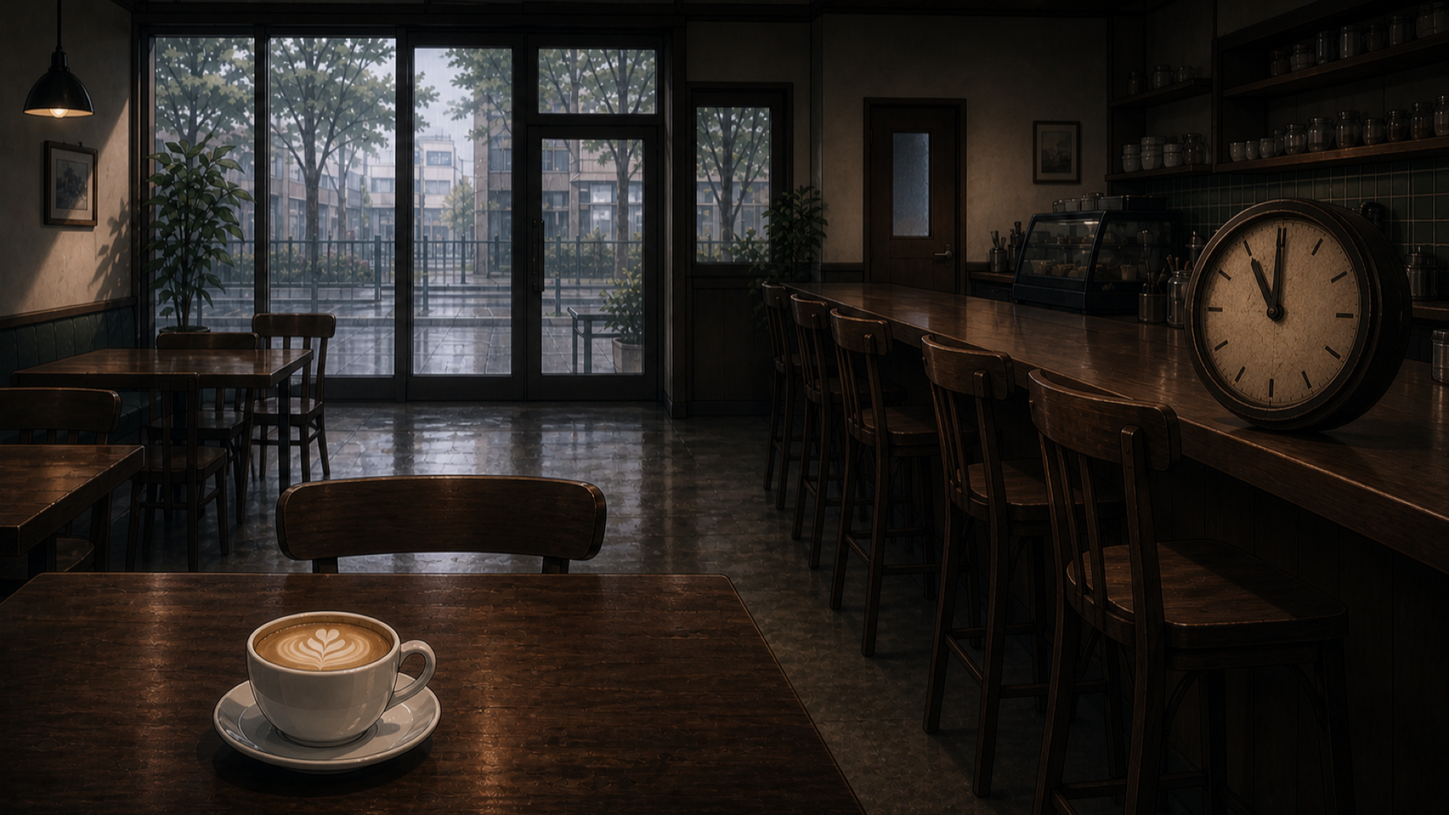
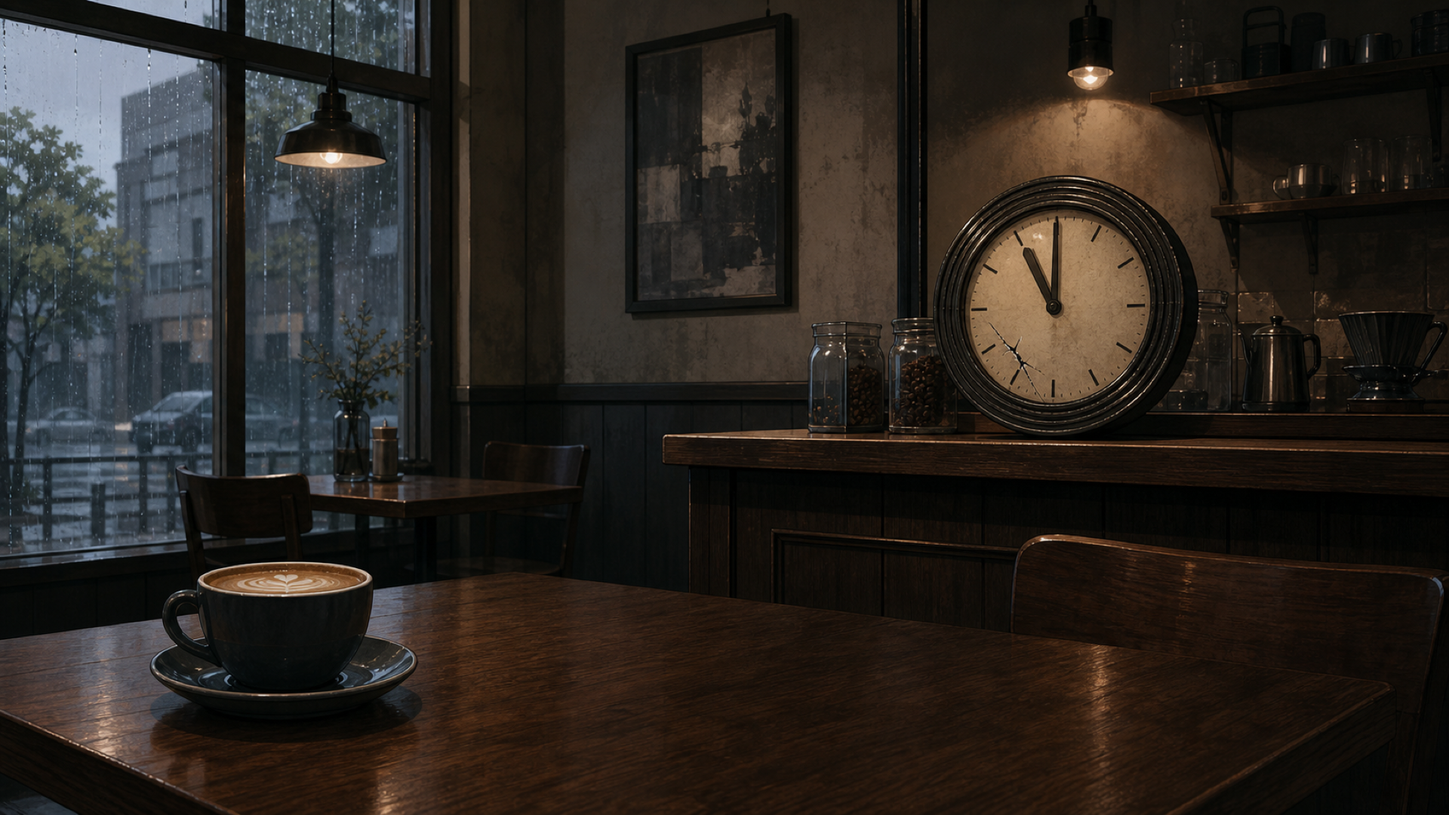
feat: close HPA-602 review gaps for old-clock raster continuity
The external review found three gaps: Scene 3's clock exemption was weaker than
the durable camera-framing clause, Scene 11 needed a post-box cue so the packing
beat no longer plays over the clock-on-counter plate, and the post-impact dial
crack had to be carried consistently across Scene 7, the evidence photo, and
Scene 11. Update the design contract, scene copy, audits, and regenerated
rasters, and bump the production e2e advance cap for the added scene_11 cue.

Generated with [Devin](https://devin.ai)

diff --git a/apps/game/e2e-tauri/production-anchors.ts b/apps/game/e2e-tauri/production-anchors.ts
@@ -1,7 +1,7 @@
 /** Coupling point for chapter_1 production content. Update when authoring renames. */
 export const STORY_CLEARED_STORAGE_KEY = "lyra.storyClearedOnce.v1";
 
-// Measured N=273 advances (scene_p0+p1+p2+0 queues + investigation_scene_1 intro)
+// Measured N=274 advances (scene_p0+p1+p2+0 queues + investigation_scene_1 intro)
 // via compiled JSON. Cap is higher because each step may spend one click on
 // typewriter-complete before the real advance (helpers double-click).
 export const DIALOGUE_DRAIN_CAP = 600;

diff --git a/docs/superpowers/specs/2026-08-21-hpa-602-old-clock-raster-continuity-design.md b/docs/superpowers/specs/2026-08-21-hpa-602-old-clock-raster-continuity-design.md
@@ -6,16 +6,19 @@
 
 Close the remaining Chapter 1 old-clock visual-continuity follow-up without changing the already-correct case logic.
 
-The player encounters one physical clock through four raster surfaces:
+The player encounters one physical clock through five raster surfaces:
 
 1. `static/assets/backgrounds/chapter_1/scene_p2/tag_002.png` — ordinary-day seed, mounted at the inner-storage entrance.
 2. `static/assets/backgrounds/chapter_1/investigation_scene_7/inner.png` — interactive crime-scene inspection, still mounted and stopped.
 3. `static/assets/evidence/old_clock_photo.png` — Case File photograph collected from that inspection.
 4. `static/assets/backgrounds/chapter_1/scene_11/tag_002.png` — post-case payoff, the same clock removed from the wall and resting on the counter.
+5. `static/assets/backgrounds/chapter_1/scene_11/tag_003.png` — post-box final café cue, the closed cardboard box in the corner with the clock no longer on the counter.
 
-HPA-602 succeeds only when all four surfaces show the same recognizable prop in the correct state and location.
+HPA-602 succeeds only when all five surfaces show the same recognizable prop in the correct state and location.
 
 This remains a raster/prompt continuity task. It does not introduce a clock sprite, rendering feature, compiler feature, visual-test framework, or new asset ID.
+
+> **Post-review revision (2026-08-22):** external review of the HPA-602 closeout found three gaps, accepted and folded into this contract: (1) Scene 3 `inner_entry.png` is now covered by a durable framing clause rather than the "not the interaction carrier" exemption; (2) Scene 11 gains the `tag_003` post-box cue so the authored boxing no longer plays over the clock-on-counter plate; (3) one literal post-impact dial crack is carried across Scene 7 → evidence → Scene 11 so the physical state cannot regenerate intact/cracked/intact.
 
 ## Canon and Current Contract
 
@@ -31,26 +34,27 @@ The old semantic re-audit also records the original defect as a location mismatc
 
 ## Scope
 
-### Four regeneration targets
+### Five regeneration targets
 
-Regenerate all four clock-bearing player surfaces in this PR:
+Regenerate all five clock-state player surfaces in this PR:
 
 - `static/assets/backgrounds/chapter_1/scene_p2/tag_002.png`
 - `static/assets/backgrounds/chapter_1/investigation_scene_7/inner.png`
 - `static/assets/evidence/old_clock_photo.png`
 - `static/assets/backgrounds/chapter_1/scene_11/tag_002.png`
+- `static/assets/backgrounds/chapter_1/scene_11/tag_003.png` (new post-box cue; later scene_11 tags shift by one)
 
 The previous conditional sibling path is removed. The current family is already known to contain materially different clock designs, so planning a no-op branch adds process without reducing work.
 
-### Fifth inspection-only surface
+### Sixth inspection-only surface
 
 Also inspect, but do not regenerate as part of this ticket:
 
 - `static/assets/backgrounds/chapter_1/investigation_scene_3/inner_entry.png`
 
-This is the pre-murder rendering of the same physical entrance. It is weaker than the four named surfaces because the player does not inspect the clock on this plate, but it must be looked at before acceptance so the final placement decision is made with the adjacent geometry visible.
+This is a rendering of the same physical entrance. It is weaker than the five named surfaces because the player does not inspect the clock on this plate, but it must be looked at before acceptance so the final placement decision is made with the adjacent geometry visible.
 
-Its absence of a clock is not automatically a failure; the review must determine whether the plate actually exposes the precise wall area where the clock should be visible. HPA-602 does not regenerate this plate.
+Its absence of a clock is acceptable only when the plate durably does not expose the entrance wall where the clock hangs. Its `Background Prompt` therefore pins the camera at the fire-door threshold facing deeper into storage, with the entrance wall behind the camera and out of frame and no wall clock visible — a future regeneration cannot contradict Scene 7's entrance-wall placement. Acceptance requires human confirmation that the existing plate complies with this framing. HPA-602 does not regenerate this plate unless the confirmation fails.
 
 ## Durable Clock Identity
 
@@ -59,6 +63,12 @@ The identity must live in authored asset prompts, not in temporary working notes
 Use this literal recurring identity across every touched `Background Prompt` / `Image Prompt`:
 
 > **round old analog café wall clock with a heavy black multi-ring metal bezel, aged cream enamel dial with fine hairline crazing, twelve short black baton hour markers and no numerals, thick tapered black hands, and a small scuff on the lower-right outer ring**
+
+Post-impact surfaces (Scene 7 `inner`, `old_clock_photo`, Scene 11 `tag_002`) additionally carry one literal damage trait:
+
+> **one sharp diagonal impact crack crossing the lower-left of the cream dial, distinct from the fine hairline crazing**
+
+P2 stays intact (pre-impact, no crack). The Scene 11 `tag_003` post-box plate carries no visible clock; its state is the closed cardboard box itself.
 
 These are visual continuity traits, not evidence facts.
 
@@ -88,9 +98,9 @@ The existing `Scene Source Prompt` can remain the concise source-object descript
 
 ### `investigation_scene_7.md` — `old_clock_photo`
 
-Replace the generic evidence `Image Prompt` with a durable description containing the same literal clock identity.
+Replace the generic evidence `Image Prompt` with a durable description containing the same literal clock identity plus the literal post-impact dial crack.
 
-Keep the existing cracked/aged character rather than replacing it with a self-reference. The evidence image remains a photo-print style isolated object, not a generic clock icon.
+Keep the aged photo-print character rather than replacing it with a self-reference. The evidence image remains a photo-print style isolated object, not a generic clock icon.
 
 ### `scene_11.md`
 
@@ -99,7 +109,17 @@ Replace the generic “old wall clock resting on the counter” prompt with the 
 - same recurring physical clock;
 - removed from the entrance wall;
 - resting naturally on the café counter;
-- stopped in the same vague late-night analog position as Scene 7.
+- stopped in the same vague late-night analog position as Scene 7;
+- carrying the same post-impact dial crack as Scene 7 and the evidence photo.
+
+Additionally add the post-box final café cue before the office cut:
+
+- a new `[場景：...]` tag with its own `Background Prompt`;
+- the old café wall clock no longer on the counter;
+- a closed cardboard box resting on the floor in the corner;
+- the umbrella stand at the frame edge;
+- the latte cup anchor retained;
+- later scene_11 tags shift by one (`tag_003` → `tag_004`, etc.).
 
 ## Time Depiction Rule
 
@@ -120,12 +140,12 @@ P2 does not need an exact time.
 
 Side-by-side human review is the acceptance owner. No image-similarity or CV test is added.
 
-All four regenerated surfaces must pass these six dimensions:
+All five regenerated surfaces must pass these six dimensions:
 
 1. **Casing/rim** — heavy black multi-ring metal bezel.
 2. **Dial/markers** — aged cream enamel, hairline crazing, short black baton markers, no numerals.
 3. **Hands** — thick tapered black hands.
-4. **Wear/imperfection** — same aged finish and lower-right outer-ring scuff.
+4. **Wear/imperfection** — same aged finish and lower-right outer-ring scuff; post-impact surfaces (Scene 7, evidence, Scene 11 counter) additionally show the same sharp diagonal impact crack across the lower-left of the dial, distinct from the crazing. P2 shows no crack.
 5. **Proportions** — same round face / unusually thick bezel relationship.
 6. **Placement and sightline** — the physical state/location is correct for that scene.
 
@@ -133,8 +153,10 @@ Placement/sightline rules:
 
 - P2: mounted on the inner-storage entrance's inner wall at the corridor endpoint.
 - Scene 7: still mounted on that entrance wall, visible just after crossing the fire door, not relocated to the storage back wall, and consistent with Miyake being unable to see it from his 23:06 position.
-- evidence photo: isolated photograph of the same Scene 7 clock in the stopped state.
-- Scene 11: removed from the wall and resting on the café counter.
+- evidence photo: isolated photograph of the same Scene 7 clock in the stopped, impact-cracked state.
+- Scene 11 `tag_002`: removed from the wall and resting on the café counter through the packing beats.
+- Scene 11 `tag_003`: closed cardboard box in the corner, clock no longer on the counter, umbrella stand at the frame edge.
+- Scene 3 `inner_entry`: entrance wall out of frame; no wall clock visible.
 
 A mismatch on any of these dimensions is rejected and regenerated in HPA-602. Do not file another clock-continuity follow-up.
 
@@ -151,7 +173,7 @@ Regenerating `investigation_scene_7/inner.png` must preserve more than the clock
 - baked 黑瀨徹 on the right at perspective-correct scale;
 - floor clearance and existing interaction readability.
 
-The only intended prop correction is the clock's identity, stopped hand position, and entrance-wall placement.
+The only intended prop corrections are the clock's identity, stopped hand position, entrance-wall placement, and the post-impact dial crack.
 
 ## Background Audit Baseline Repair
 
@@ -186,7 +208,7 @@ file -b <touched PNG paths>
 
 For HPA-602 the expected metadata is:
 
-- three regenerated backgrounds: `1920 x 1080`, RGB/non-alpha PNG;
+- four regenerated backgrounds (`scene_p2/tag_002`, `investigation_scene_7/inner`, `scene_11/tag_002`, `scene_11/tag_003`): `1920 x 1080`, RGB/non-alpha PNG;
 - regenerated evidence: `512 x 512`, RGBA PNG.
 
 This is sufficient for the normalizer used by the asset workflow. Do not add another ticket-specific validator.
@@ -210,9 +232,9 @@ Write the HPA-602 result directly into `docs/stories_plan/chapter_1/semantic-con
 
 Record:
 
-- all five surfaces inspected;
-- the four regenerated paths;
-- the literal durable clock identity used in the four asset prompts;
+- all six surfaces inspected (five regenerated + `inner_entry.png`);
+- the five regenerated paths;
+- the literal durable clock identity (including the post-impact dial crack) used in the asset prompts;
 - six-dimension side-by-side acceptance;
 - the Scene 3 `inner_entry.png` inspection disposition;
 - `file -b` metadata results;
@@ -234,6 +256,7 @@ Implementation is expected to modify:
 - `static/assets/backgrounds/chapter_1/investigation_scene_7/inner.png`
 - `static/assets/evidence/old_clock_photo.png`
 - `static/assets/backgrounds/chapter_1/scene_11/tag_002.png`
+- `static/assets/backgrounds/chapter_1/scene_11/tag_003.png` (new; former `tag_003`–`tag_005` shift to `tag_004`–`tag_006`)
 
 Inspect only:
 

diff --git a/docs/stories_plan/chapter_1/background-variety-audit.md b/docs/stories_plan/chapter_1/background-variety-audit.md
@@ -109,11 +109,12 @@ The audit distinguishes intentional holds from accidental repetition. In particu
 | `chapter_1/interrogation_scene_10.json::/phases/4/backgroundAssetId` | KAGAMI final hearing | Doorlock-excerpt comparison | Same table, parallel record stacks, daylight | Parallel stacks give a new evidence relationship without breaking the hearing hold | keep | B | Retain uninterrupted hearing sightline | Accepted; same-view control |
 | `chapter_1/interrogation_scene_10.json::/phases/5/backgroundAssetId` | KAGAMI final hearing | Final evidence-chain synthesis | Same table, work order, credential, memo, umbrella comparison | Culminating chain deliberately reuses the room while maximizing table-object contrast | keep | B | Retain uninterrupted hearing sightline | Accepted; same-view control |
 | `chapter_1/scene_11.json::/queue/0/assetCue/backgroundAssetId` | Rain Bell front room aftermath | Case-resolution cafe return | Half-reset tables, counter, wet windows, soft afternoon | Calm reopening reverses the closing-night palette and state | keep | B | Retain post-case emotional release | Accepted |
-| `chapter_1/scene_11.json::/queue/32/assetCue/backgroundAssetId` | Rain Bell front room evidence hold | Latte-and-clock unresolved beat | Window table, latte cup, old clock | Tighter table focus changes the cafe's function from social room to unresolved clue | keep | B | Retain clue-focused cafe hold | Accepted |
-| `chapter_1/scene_11.json::/queue/44/assetCue/backgroundAssetId` | Soma office at night | USB discovery | Worn desk, lamp, laptop, rainy city window | First office-night plate introduces the new case object | keep | B | Retain USB focal reveal | Accepted |
-| `chapter_1/scene_11.json::/queue/62/assetCue/backgroundAssetId` | Soma office at night | Transfer-list escalation | Same desk, laptop, practical lamp, added papers and phone | Same-view continuity is earned because the prop state visibly accumulates | keep | B | Retain evidence-accumulation hold | Accepted |
-| `chapter_1/scene_11.json::/queue/72/assetCue/backgroundAssetId` | Rain Bell exterior late night | Blue-umbrella coda | Dark storefront, wet street, umbrella stand | Exterior returns to the cafe with a new lone-object focal clue | keep | B | Retain final exterior mystery hook | Accepted |
+| `chapter_1/scene_11.json::/queue/32/assetCue/backgroundAssetId` | Rain Bell front room evidence hold | Latte-and-clock unresolved beat | Window table, latte cup, old clock with post-impact dial crack | Tighter table focus changes the cafe's function from social room to unresolved clue | keep | B | Retain clue-focused cafe hold | Accepted |
+| `chapter_1/scene_11.json::/queue/40/assetCue/backgroundAssetId` | Rain Bell front room post-box hold | Clock-boxed closing beat | Counter without the clock, closed cardboard box in the corner, umbrella stand at frame edge | Post-box state cue keeps the authored boxing visually true instead of contradicting the counter-clock plate | keep | B | Retain post-box state cue | Accepted |
+| `chapter_1/scene_11.json::/queue/45/assetCue/backgroundAssetId` | Soma office at night | USB discovery | Worn desk, lamp, laptop, rainy city window | First office-night plate introduces the new case object | keep | B | Retain USB focal reveal | Accepted |
+| `chapter_1/scene_11.json::/queue/63/assetCue/backgroundAssetId` | Soma office at night | Transfer-list escalation | Same desk, laptop, practical lamp, added papers and phone | Same-view continuity is earned because the prop state visibly accumulates | keep | B | Retain evidence-accumulation hold | Accepted |
+| `chapter_1/scene_11.json::/queue/73/assetCue/backgroundAssetId` | Rain Bell exterior late night | Blue-umbrella coda | Dark storefront, wet street, umbrella stand | Exterior returns to the cafe with a new lone-object focal clue | keep | B | Retain final exterior mystery hook | Accepted |
 
 ## Coverage result
 
-The compiler-owned inventory contains **55** cue occurrences. This report has **55** decision rows with the exact current cue keys, no duplicates, no stale keys, and allowed decision/priority values. There are **0 Priority A** decisions; all retained decisions are B-priority. No background regeneration is part of this audit pass, including the approved P1.5 existing-counter reuse.
+The compiler-owned inventory contains **56** cue occurrences. This report has **56** decision rows with the exact current cue keys, no duplicates, no stale keys, and allowed decision/priority values. There are **0 Priority A** decisions; all retained decisions are B-priority. The one background addition in this pass is the approved HPA-602 Scene 11 post-box state cue (`queue/40`); the HPA-602 clock-surface regenerations replace plate content without adding or removing cues.

diff --git a/docs/stories_plan/chapter_1/semantic-content-reaudit.md b/docs/stories_plan/chapter_1/semantic-content-reaudit.md
@@ -173,12 +173,13 @@ The initial 16-file/no-analysis record above remains a historical checkpoint. Th
 ### Resolved follow-up — old-clock raster continuity (HPA-602)
 
 - **Status:** Resolved. Axis 5 clock-item verdict: `SHIP`.
-- **Inspected surfaces:** `scene_p2/tag_002.png`, `investigation_scene_3/inner_entry.png`, `investigation_scene_7/inner.png`, `old_clock_photo.png`, `scene_11/tag_002.png`.
-- **Regenerated surfaces:** `scene_p2/tag_002.png`, `investigation_scene_7/inner.png`, `old_clock_photo.png`, `scene_11/tag_002.png`.
-- **Durable identity:** round old analog café wall clock with a heavy black multi-ring metal bezel, aged cream enamel dial with fine hairline crazing, twelve short black baton hour markers and no numerals, thick tapered black hands, and a small scuff on the lower-right outer ring. The four owning asset prompts contain these literal traits.
-- **Placement/sightline:** P2 and Scene 7 keep the clock on the inner-storage entrance wall; Scene 7 keeps the corridor-side replay sightline blocked by the existing shelf/fire-door geometry; Scene 11 shows the same clock removed to the counter.
+- **Inspected surfaces:** `scene_p2/tag_002.png`, `investigation_scene_3/inner_entry.png`, `investigation_scene_7/inner.png`, `old_clock_photo.png`, `scene_11/tag_002.png`, `scene_11/tag_003.png`.
+- **Regenerated surfaces:** `scene_p2/tag_002.png`, `investigation_scene_7/inner.png`, `old_clock_photo.png`, `scene_11/tag_002.png`, `scene_11/tag_003.png` (new post-box cue; former `scene_11` `tag_003`–`tag_005` shifted to `tag_004`–`tag_006`).
+- **Durable identity:** round old analog café wall clock with a heavy black multi-ring metal bezel, aged cream enamel dial with fine hairline crazing, twelve short black baton hour markers and no numerals, thick tapered black hands, and a small scuff on the lower-right outer ring. Post-impact surfaces (Scene 7 background, `old_clock_photo`, Scene 11 `tag_002`) additionally carry one sharp diagonal impact crack crossing the lower-left of the cream dial, distinct from the hairline crazing; P2 stays intact. The owning asset prompts contain these literal traits.
+- **Placement/sightline:** P2 and Scene 7 keep the clock on the inner-storage entrance wall; Scene 7 keeps the corridor-side replay sightline blocked by the existing shelf/fire-door geometry; Scene 11 `tag_002` shows the same clock removed to the counter through the packing beats, and the new `tag_003` cue shows the closed cardboard box in the corner with the clock no longer on the counter.
 - **Stopped-time depiction:** Scene 7, evidence, and Scene 11 use only the vague analog late-night position (minute hand near 12, hour hand just before 11); exact `22:59` remains authored text, not readable raster content.
-- **Asset policy:** `file -b` verifies the three backgrounds as RGB `1920x1080` PNGs and `old_clock_photo.png` as RGBA `512x512` PNG.
+- **Asset policy:** `file -b` verifies the four backgrounds as RGB `1920x1080` PNGs and `old_clock_photo.png` as RGBA `512x512` PNG.
 - **Mechanical verification:** `bun run scenes:compile` and `bun run background-cues:audit --chapter chapter_1 --check-report docs/stories_plan/chapter_1/background-variety-audit.md` both exit 0 after the stale current `scene_8_5` report ownership is updated to `analysis_scene_8_5`.
 - **Owner/tracking:** HPA-602 complete; no further old-clock visual follow-up remains.
-- **Scene 3 inspection:** The `inner_entry.png` plate exposes entrance geometry but remains non-blocking because it is not the clock-interaction carrier; no change required.
+- **Scene 3 inspection:** `inner_entry.png` renders the same inner-storage entrance, so its durability is owned by framing, not by the interaction-carrier argument: the `inner_entry` `Background Prompt` pins the camera at the fire-door threshold facing deeper into storage, with the entrance wall behind the camera out of frame and no wall clock visible. A regeneration therefore cannot contradict Scene 7's entrance-wall placement. Human confirmation that the existing plate complies with this framing is part of acceptance.
+- **Review revision (2026-08-22):** external review of the first closeout found three gaps, all accepted and fixed on this branch: (1) the weak "not the clock-interaction carrier" Scene 3 exemption was replaced by the durable framing clause above; (2) Scene 11 gained the `tag_003` post-box cue so the authored boxing no longer plays over the clock-on-counter plate; (3) the previously evidence-only "cracked" state was unified into the literal post-impact dial crack carried across Scene 7 → evidence → Scene 11 and added to the six-dimension gate.

diff --git a/docs/stories_plan/chapter_1/investigation_scene_7.md b/docs/stories_plan/chapter_1/investigation_scene_7.md
@@ -159,7 +159,7 @@
 
 ## Sub-location: 內側倉庫 {#inner}
 - **Status:** locked
-- **Background Prompt:** Cold inner storage room of a small Tokyo cafe, high metal shelves casting long shadows and preserving the blocked sightline from the corridor-side replay position, hard sensor light, shelf impact mark on floor. Immediately inside the fire door, on the inner-storage entrance's inner wall rather than the deep storage back wall, mount the recurring round old analog cafe wall clock with a heavy black multi-ring metal bezel, aged cream enamel dial with fine hairline crazing, twelve short black baton hour markers and no numerals, thick tapered black hands, and a small scuff on the lower-right outer ring; its minute hand is nearly vertical at 12 and its hour hand is just before 11, with no readable time text. Detective Kurose Toru baked into the right side of the storage room: stocky weathered middle-aged man, wrinkled brown-gray field coat, worn dark leather shoes, thick hands, standing with slow steady footing as he leads the inspection, deep crow's-feet and night-shift weariness, perspective-correct scale and lighting under the hard sensor light, not covering the clock, shelf impact mark, phone drop position, bean can, or paperback hotspot.
+- **Background Prompt:** Cold inner storage room of a small Tokyo cafe, high metal shelves casting long shadows and preserving the blocked sightline from the corridor-side replay position, hard sensor light, shelf impact mark on floor. Immediately inside the fire door, on the inner-storage entrance's inner wall rather than the deep storage back wall, mount the recurring round old analog cafe wall clock with a heavy black multi-ring metal bezel, aged cream enamel dial with fine hairline crazing, twelve short black baton hour markers and no numerals, thick tapered black hands, a small scuff on the lower-right outer ring, and one sharp diagonal impact crack crossing the lower-left of the cream dial, distinct from the fine hairline crazing; its minute hand is nearly vertical at 12 and its hour hand is just before 11, with no readable time text. Detective Kurose Toru baked into the right side of the storage room: stocky weathered middle-aged man, wrinkled brown-gray field coat, worn dark leather shoes, thick hands, standing with slow steady footing as he leads the inspection, deep crow's-feet and night-shift weariness, perspective-correct scale and lighting under the hard sensor light, not covering the clock, shelf impact mark, phone drop position, bean can, or paperback hotspot.
 
 [場景：雨鐘咖啡館內側倉庫，冷，金屬味，高貨架投下長影；一跨過防火門、入口內側牆上的舊掛鐘指針卡住，地上一道貨架撞痕。]
 
@@ -409,7 +409,7 @@
 - **Description:** 停在接近 22:59 的舊掛鐘照片。
 - **Details:** 指針卡住的時間落在約 22:59，疑似遭撞擊停擺。一台舊鐘無法單獨錨定真正的時間，只能當旁證。
 - **Source Sublocation:** inner
-- **Image Prompt:** Isolated photo print of the recurring round old analog cafe wall clock examined at the inner-storage entrance, with a heavy black multi-ring metal bezel, aged cream enamel dial with fine hairline crazing, twelve short black baton hour markers and no numerals, thick tapered black hands, and a small scuff on the lower-right outer ring; stopped at a vague late-night position with the minute hand nearly vertical at 12 and the hour hand just before 11, cracked shadowed aged appearance, no readable timestamp or text, transparent evidence-icon composition.
+- **Image Prompt:** Isolated photo print of the recurring round old analog cafe wall clock examined at the inner-storage entrance, with a heavy black multi-ring metal bezel, aged cream enamel dial with fine hairline crazing, twelve short black baton hour markers and no numerals, thick tapered black hands, and a small scuff on the lower-right outer ring; stopped at a vague late-night position with the minute hand nearly vertical at 12 and the hour hand just before 11, shadowed aged appearance with one sharp diagonal impact crack crossing the lower-left of the cream dial, distinct from the fine hairline crazing, no readable timestamp or text, transparent evidence-icon composition.
 
 #### On Collect
 

diff --git a/docs/stories_plan/chapter_1/scene_11.md b/docs/stories_plan/chapter_1/scene_11.md
@@ -70,7 +70,7 @@
 [三宅紅了臉，店長在一旁低聲笑了。]
 
 [場景：雨鐘咖啡館，午後，店內空鏡。人聲漸遠，只剩光線落在木桌上。]
-- **Background Prompt:** Empty Rain Bell cafe interior in afternoon light, a latte cup on a wooden table, the recurring round old analog cafe wall clock from the back-corridor inner-storage entrance now removed from the wall and resting naturally on the counter, with a heavy black multi-ring metal bezel, aged cream enamel dial with fine hairline crazing, twelve short black baton hour markers and no numerals, thick tapered black hands, and a small scuff on the lower-right outer ring; its minute hand is nearly vertical at 12 and its hour hand is just before 11, no readable clock numerals or other text, quiet unresolved stillness.
+- **Background Prompt:** Empty Rain Bell cafe interior in afternoon light, a latte cup on a wooden table, the recurring round old analog cafe wall clock from the back-corridor inner-storage entrance now removed from the wall and resting naturally on the counter, with a heavy black multi-ring metal bezel, aged cream enamel dial with fine hairline crazing, twelve short black baton hour markers and no numerals, thick tapered black hands, a small scuff on the lower-right outer ring, and one sharp diagonal impact crack crossing the lower-left of the cream dial, distinct from the fine hairline crazing; its minute hand is nearly vertical at 12 and its hour hand is just before 11, no readable clock numerals or other text, quiet unresolved stillness.
 - **BGM:** bgm_chapter_close
 - **BGS:** bgs_cafe_afternoon_after_rain
 
@@ -87,6 +87,11 @@
 [她的手停在箱口，停了一會兒。]
 
 **旁白**：她沒有立刻把它丟掉。
+
+[場景：雨鐘咖啡館，午後。吧台上已不見掛鐘，角落放著一只封好的紙箱，門邊傘架在畫面邊緣。]
+- **Background Prompt:** Empty Rain Bell cafe interior in afternoon light, a latte cup on a wooden table, the old cafe wall clock no longer on the counter, a closed cardboard box resting on the floor in the corner, the umbrella stand standing quietly at the frame edge near the door, quiet unresolved stillness, no readable text.
+- **BGM:** bgm_chapter_close
+- **BGS:** bgs_cafe_afternoon_after_rain
 
 [店長把紙箱蓋上，放到角落。門邊的傘架，只在畫面邊緣靜靜立著。]
 

diff --git a/docs/stories_plan/chapter_1/investigation_scene_3.md b/docs/stories_plan/chapter_1/investigation_scene_3.md
@@ -348,7 +348,7 @@
 
 ## Sub-location: 內側倉庫入口 {#inner_entry}
 - **Status:** locked
-- **Background Prompt:** Dark inner storage entrance of Rain Bell cafe, high shelves, thin dust, sensor light just out of range, occluded view into deeper storage, tense spatial clue.
+- **Background Prompt:** Dark inner storage entrance of Rain Bell cafe seen from the fire-door threshold, camera facing deeper into the storage so the entrance wall behind the camera stays out of frame, high shelves blocking the view into deeper storage, thin dust, sensor light just out of range, no wall clock visible, tense spatial clue.
 
 [場景：雨鐘內側倉庫入口，高貨架，光線昏暗。]
 
